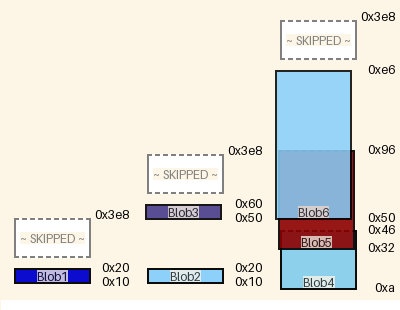
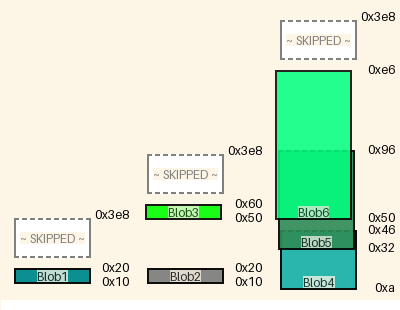
add indent field to schema for memory region drawing indent

diff --git a/mm/metamodel.py b/mm/metamodel.py
@@ -2,18 +2,23 @@
 import pydantic
 import pathlib
 import json
-from typing import Tuple
+from typing import Tuple, Literal
 from typing_extensions import Annotated
 import logging
+import enum
 
 class ConfigParent(pydantic.BaseModel):
     model_config = pydantic.ConfigDict(
         validate_assignment=True,
         revalidate_instances="always",
         validate_default=True,
-        validate_return=True
+        validate_return=True,
+        use_enum_values=True
     )
 
+class IndentScheme(str, enum.Enum):
+    linear = 'linear'
+    alternate = 'alternate'
 
 # data model
 class MemoryRegion(ConfigParent):
@@ -108,6 +113,10 @@ class Diagram(ConfigParent):
     memory_maps: Annotated[
         dict[str, MemoryMap],
         pydantic.Field(..., description="The diagram frame. Can contain many memory maps.")
+    ]
+    indent_scheme: Annotated[
+        IndentScheme,
+        pydantic.Field(IndentScheme.linear, description="Drawing indent for Memory Regions")
     ]
 
     @pydantic.field_validator("diagram_name")

diff --git a/mm/diagram.py b/mm/diagram.py
@@ -88,10 +88,21 @@ class MemoryMapDiagram:
         # assign the draw indent by ascending origin
         image_list.sort(key=lambda x: x.origin_as_int, reverse=False)
         region_indent = 0
-        for image in image_list:
-            image.draw_indent = region_indent
-            region_indent += 5
-        
+        if Diagram.model.indent_scheme == "alternate":
+            prev_indent = False
+            for image in image_list:
+                image.draw_indent = region_indent
+                if not prev_indent:
+                    region_indent = 5
+                    prev_indent = True
+                else:
+                    region_indent = 0
+                    prev_indent = False
+        if Diagram.model.indent_scheme == "linear":
+            for image in image_list:
+                image.draw_indent = region_indent
+                region_indent += 5
+            
         self._draw(image_list)
 
         return image_list

diff --git a/doc/example/tests.test_docs_three_maps.md b/doc/example/tests.test_docs_three_maps.md
@@ -1,9 +1,9 @@
 ![memory map diagram](tests.test_docs_three_maps_cropped.png)
 |name|origin|size|free Space|collisions
 |:-|:-|:-|:-|:-|
-|<span style='color:skyblue'>Blob4</span>|0xa|0x3c|-0x14|{'Blob5': '0x32'}|
-|<span style='color:darkred'>Blob5</span>|0x32|0x64|-0x46|{'Blob4': '0x32', 'Blob6': '0x50'}|
-|<span style='color:lightskyblue'>Blob6</span>|0x50|0x96|0x302|{'Blob5': '0x50'}|
-|<span style='color:lightskyblue'>Blob2</span>|0x10|0x10|0x30|{}|
-|<span style='color:darkslateblue'>Blob3</span>|0x50|0x10|0x388|{}|
-|<span style='color:mediumblue'>Blob1</span>|0x10|0x10|0x3c8|{}|
+|<span style='color:lightseagreen'>Blob4</span>|0xa|0x3c|-0x14|{'Blob5': '0x32'}|
+|<span style='color:seagreen'>Blob5</span>|0x32|0x64|-0x46|{'Blob4': '0x32', 'Blob6': '0x50'}|
+|<span style='color:springgreen'>Blob6</span>|0x50|0x96|0x302|{'Blob5': '0x50'}|
+|<span style='color:grey'>Blob2</span>|0x10|0x10|0x30|{}|
+|<span style='color:lime'>Blob3</span>|0x50|0x10|0x388|{}|
+|<span style='color:darkcyan'>Blob1</span>|0x10|0x10|0x3c8|{}|

diff --git a/doc/example/tests.test_docs_collisions.md b/doc/example/tests.test_docs_collisions.md
@@ -1,6 +1,6 @@
 ![memory map diagram](tests.test_docs_collisions_cropped.png)
 |name|origin|size|free Space|collisions
 |:-|:-|:-|:-|:-|
-|<span style='color:green'>kernel</span>|0x10|0x60|-0x20|{'rootfs': '0x50'}|
-|<span style='color:darkturquoise'>rootfs</span>|0x50|0x50|-0x10|{'kernel': '0x50', 'dtb': '0x90'}|
-|<span style='color:lightgreen'>dtb</span>|0x90|0x30|0x328|{'rootfs': '0x90'}|
+|<span style='color:rebeccapurple'>kernel</span>|0x10|0x60|-0x20|{'rootfs': '0x50'}|
+|<span style='color:darkcyan'>rootfs</span>|0x50|0x50|-0x10|{'kernel': '0x50', 'dtb': '0x90'}|
+|<span style='color:mediumpurple'>dtb</span>|0x90|0x30|0x328|{'rootfs': '0x90'}|

diff --git a/doc/example/tests.test_docs_normal.md b/doc/example/tests.test_docs_normal.md
@@ -1,6 +1,6 @@
 ![memory map diagram](tests.test_docs_normal_cropped.png)
 |name|origin|size|free Space|collisions
 |:-|:-|:-|:-|:-|
-|<span style='color:darkolivegreen'>kernel</span>|0x10|0x30|0x10|{}|
-|<span style='color:mediumturquoise'>rootfs</span>|0x50|0x30|0x110|{}|
-|<span style='color:darkblue'>dtb</span>|0x190|0x30|0x228|{}|
+|<span style='color:mediumturquoise'>kernel</span>|0x10|0x30|0x10|{}|
+|<span style='color:cadetblue'>rootfs</span>|0x50|0x30|0x110|{}|
+|<span style='color:lightseagreen'>dtb</span>|0x190|0x30|0x228|{}|

diff --git a/doc/example/tests.test_docs_two_maps.md b/doc/example/tests.test_docs_two_maps.md
@@ -1,6 +1,6 @@
 ![memory map diagram](tests.test_docs_two_maps_cropped.png)
 |name|origin|size|free Space|collisions
 |:-|:-|:-|:-|:-|
-|<span style='color:skyblue'>Blob2</span>|0x10|0x10|0x30|{}|
-|<span style='color:mediumseagreen'>Blob3</span>|0x50|0x10|0x388|{}|
-|<span style='color:lightslategrey'>Blob1</span>|0x10|0x10|0x3c8|{}|
+|<span style='color:darkviolet'>Blob2</span>|0x10|0x10|0x30|{}|
+|<span style='color:sienna'>Blob3</span>|0x50|0x10|0x388|{}|
+|<span style='color:mediumspringgreen'>Blob1</span>|0x10|0x10|0x3c8|{}|
